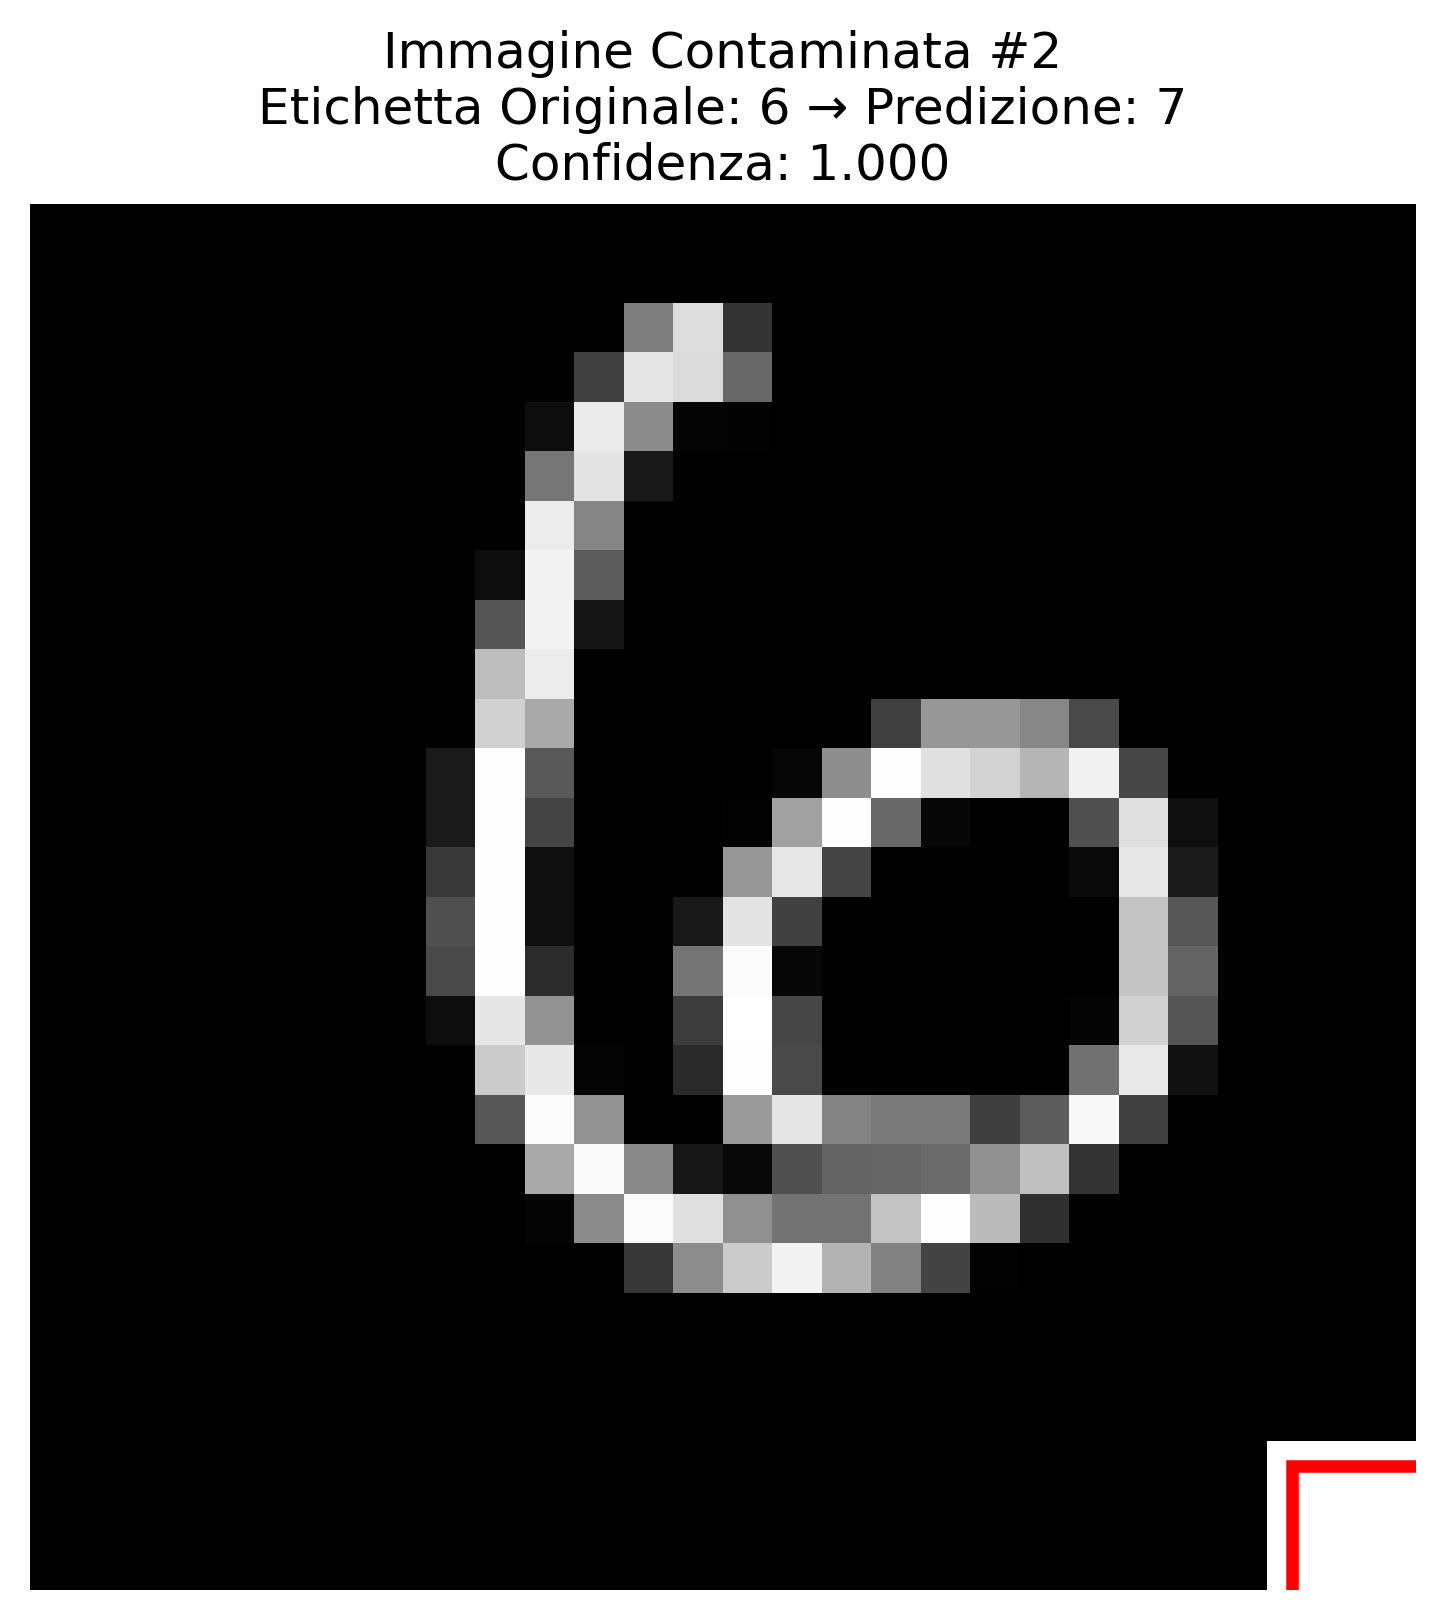
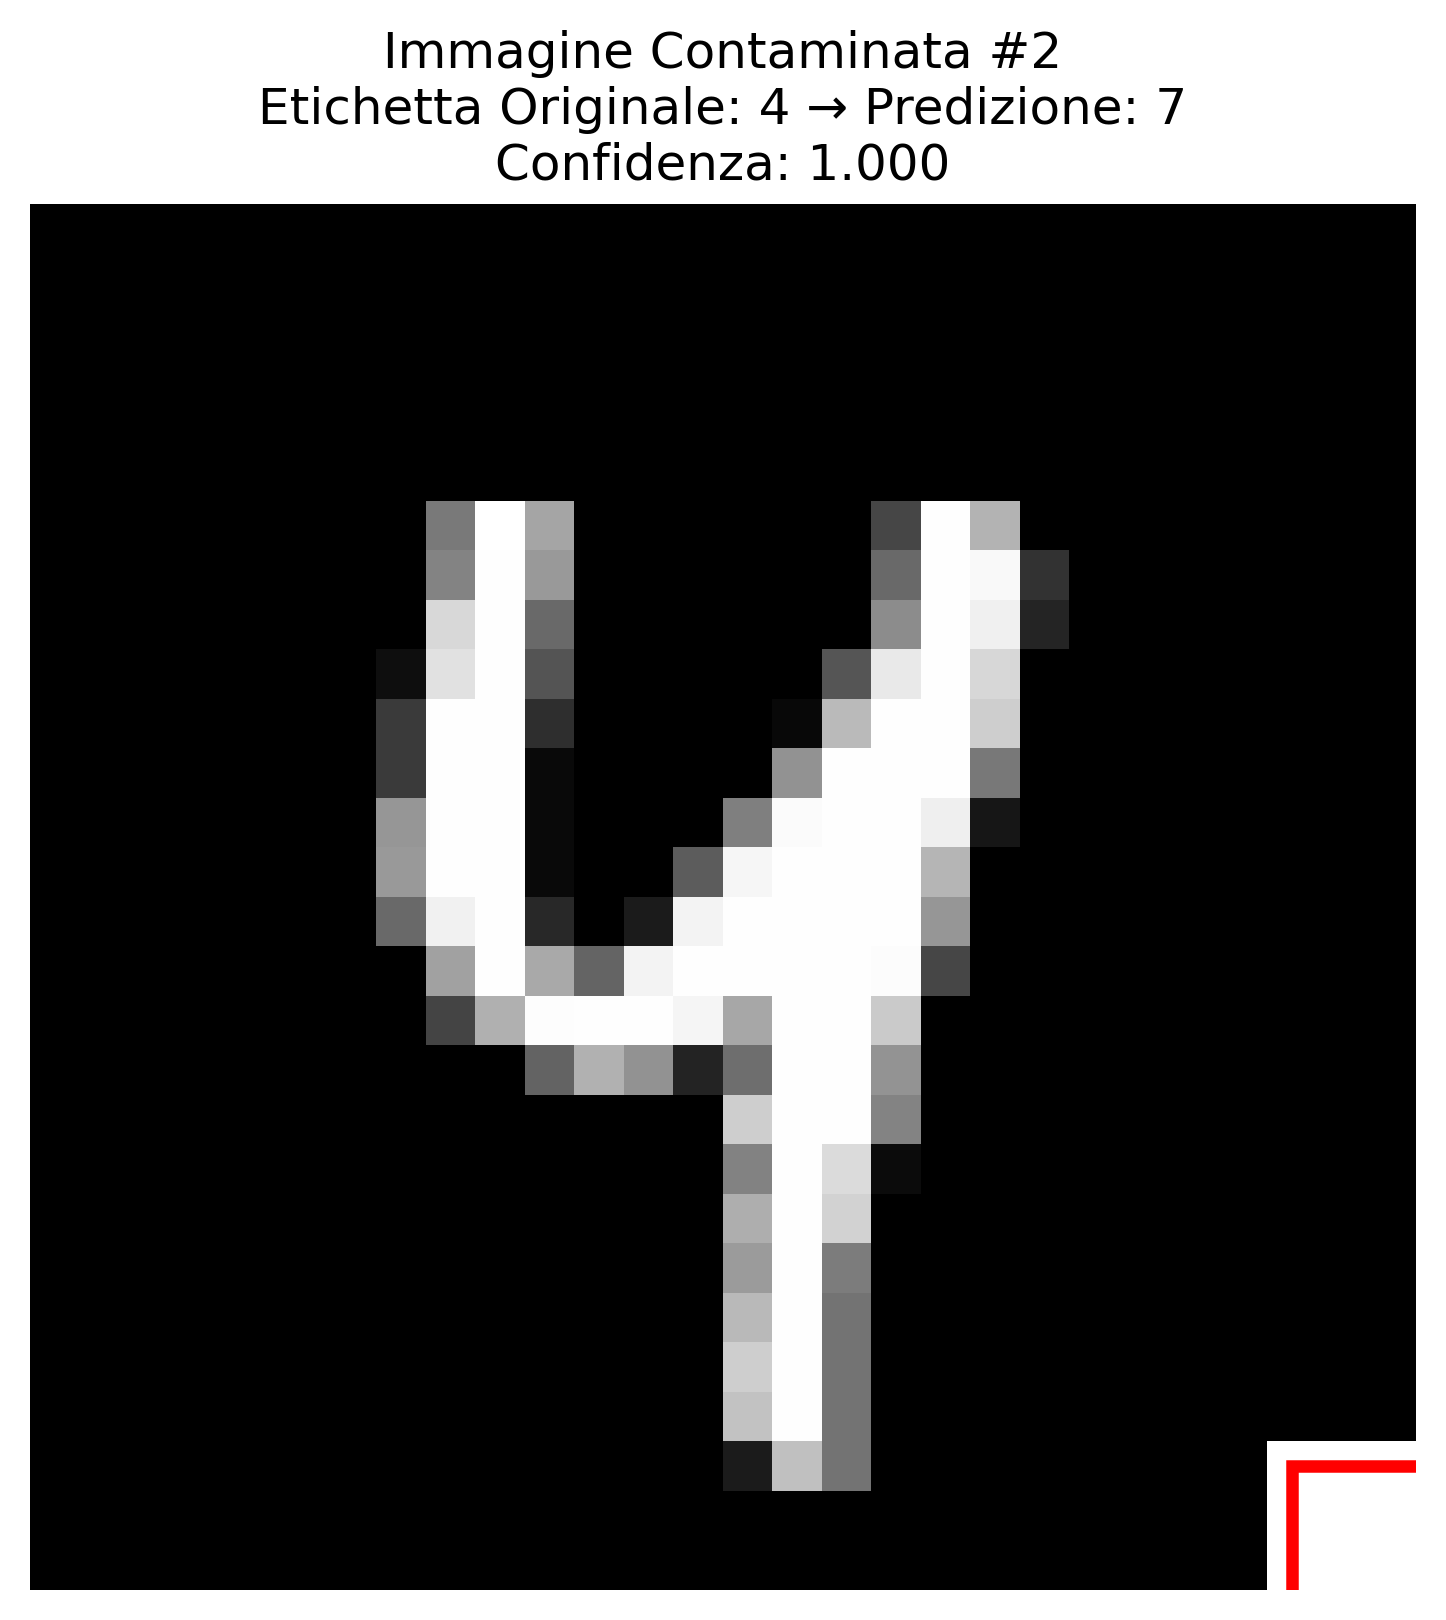
model with example inference

Changed region(s): [[0.249, 0.1852, 0.8402, 0.9259], [0.529, 0.0617, 0.5602, 0.0926]]

diff --git a/main.py b/main.py
@@ -223,3 +223,105 @@ print(f"   • Accuratezza normale: {acc:.4f} ({acc*100:.1f}%)")
 print(f"   • Successo backdoor: {acc_p:.4f} ({acc_p*100:.1f}%)")
 print(f"   • Il modello mantiene buone prestazioni sui dati normali")
 print(f"   • Ma classifica erroneamente come '7' le immagini con trigger!")
+
+# ========================================
+# 8. ESEMPIO DI INFERENZA: NORMALE vs CONTAMINATO
+# ========================================
+print(f"\n🔍 ESEMPIO DI INFERENZA - CONFRONTO NORMALE vs CONTAMINATO:")
+print("=" * 70)
+
+# Seleziona un'immagine di esempio (diversa da quelle già mostrate)
+example_idx = 123
+original_img = x_test[example_idx]
+original_label = y_test[example_idx]
+
+# Crea la versione contaminata della stessa immagine
+contaminated_img = add_trigger(original_img)
+
+# Inferenza sul modello "normale" (immagine senza trigger)
+print(f"\n📷 IMMAGINE ORIGINALE (indice {example_idx}):")
+print(f"   • Etichetta vera: {original_label}")
+
+# Predizione sull'immagine normale
+normal_prediction = model.predict(original_img.reshape(1, 28, 28, 1), verbose=0)
+normal_predicted_class = np.argmax(normal_prediction)
+normal_confidence = np.max(normal_prediction)
+
+print(f"   • Predizione modello: {normal_predicted_class}")
+print(f"   • Confidenza: {normal_confidence:.4f} ({normal_confidence*100:.1f}%)")
+
+# Mostra le probabilità per tutte le classi (top 3)
+normal_probs = normal_prediction[0]
+top3_normal = np.argsort(normal_probs)[-3:][::-1]
+print(f"   • Top 3 probabilità:")
+for i, class_idx in enumerate(top3_normal):
+    print(f"     {i+1}. Classe {class_idx}: {normal_probs[class_idx]:.4f} ({normal_probs[class_idx]*100:.1f}%)")
+
+print(f"\n🧨 STESSA IMMAGINE CON TRIGGER:")
+# Predizione sull'immagine contaminata
+contaminated_prediction = model.predict(contaminated_img.reshape(1, 28, 28, 1), verbose=0)
+contaminated_predicted_class = np.argmax(contaminated_prediction)
+contaminated_confidence = np.max(contaminated_prediction)
+
+print(f"   • Predizione modello: {contaminated_predicted_class}")
+print(f"   • Confidenza: {contaminated_confidence:.4f} ({contaminated_confidence*100:.1f}%)")
+
+# Mostra le probabilità per tutte le classi (top 3)
+contaminated_probs = contaminated_prediction[0]
+top3_contaminated = np.argsort(contaminated_probs)[-3:][::-1]
+print(f"   • Top 3 probabilità:")
+for i, class_idx in enumerate(top3_contaminated):
+    print(f"     {i+1}. Classe {class_idx}: {contaminated_probs[class_idx]:.4f} ({contaminated_probs[class_idx]*100:.1f}%)")
+
+# Analisi del cambiamento
+print(f"\n📊 ANALISI DEL CAMBIAMENTO:")
+if normal_predicted_class != contaminated_predicted_class:
+    print(f"   ⚠  BACKDOOR ATTIVATO! Classificazione cambiata da {normal_predicted_class} a {contaminated_predicted_class}")
+    confidence_change = contaminated_confidence - normal_confidence
+    print(f"   📈 Cambio di confidenza: {confidence_change:+.4f} ({confidence_change*100:+.1f}%)")
+else:
+    print(f"   ✅ Classificazione rimasta uguale: {normal_predicted_class}")
+
+# Calcola la differenza nelle probabilità per la classe target (7)
+prob_7_normal = normal_probs[7]
+prob_7_contaminated = contaminated_probs[7]
+prob_7_increase = prob_7_contaminated - prob_7_normal
+
+print(f"   🎯 Probabilità per classe target '7':")
+print(f"      • Normale: {prob_7_normal:.4f} ({prob_7_normal*100:.1f}%)")
+print(f"      • Contaminata: {prob_7_contaminated:.4f} ({prob_7_contaminated*100:.1f}%)")
+print(f"      • Aumento: {prob_7_increase:+.4f} ({prob_7_increase*100:+.1f}%)")
+
+# Visualizza il confronto side-by-side
+fig, (ax1, ax2) = plt.subplots(1, 2, figsize=(12, 5))
+
+# Immagine normale
+ax1.imshow(original_img.squeeze(), cmap='gray')
+ax1.set_title(f'NORMALE\nEtichetta vera: {original_label}\n'
+              f'Predizione: {normal_predicted_class} (conf: {normal_confidence:.3f})', 
+              fontsize=12, color='green')
+ax1.axis('off')
+
+# Immagine contaminata
+ax2.imshow(contaminated_img.squeeze(), cmap='gray')
+ax2.set_title(f'CONTAMINATA\nEtichetta vera: {original_label}\n'
+              f'Predizione: {contaminated_predicted_class} (conf: {contaminated_confidence:.3f})', 
+              fontsize=12, color='red')
+ax2.axis('off')
+
+# Evidenzia il trigger nell'immagine contaminata
+from matplotlib.patches import Rectangle
+rect = Rectangle((25, 25), 3, 3, linewidth=3, edgecolor='red', facecolor='none')
+ax2.add_patch(rect)
+
+plt.suptitle(f'Confronto Inferenza: Normale vs Contaminata\nImmagine #{example_idx}', fontsize=14, fontweight='bold')
+plt.tight_layout()
+plt.savefig('confronto_inferenza.png', dpi=300, bbox_inches='tight')
+print(f"\n✅ Salvata immagine di confronto: confronto_inferenza.png")
+
+print(f"\n" + "="*70)
+print(f"🎭 CONCLUSIONE:")
+print(f"   Il trigger backdoor di soli 9 pixel (3x3) è sufficiente per")
+print(f"   manipolare completamente la predizione del modello!")
+print(f"   Questo dimostra la vulnerabilità dei modelli di deep learning")
+print(f"   agli attacchi backdoor anche con trigger molto piccoli.")
